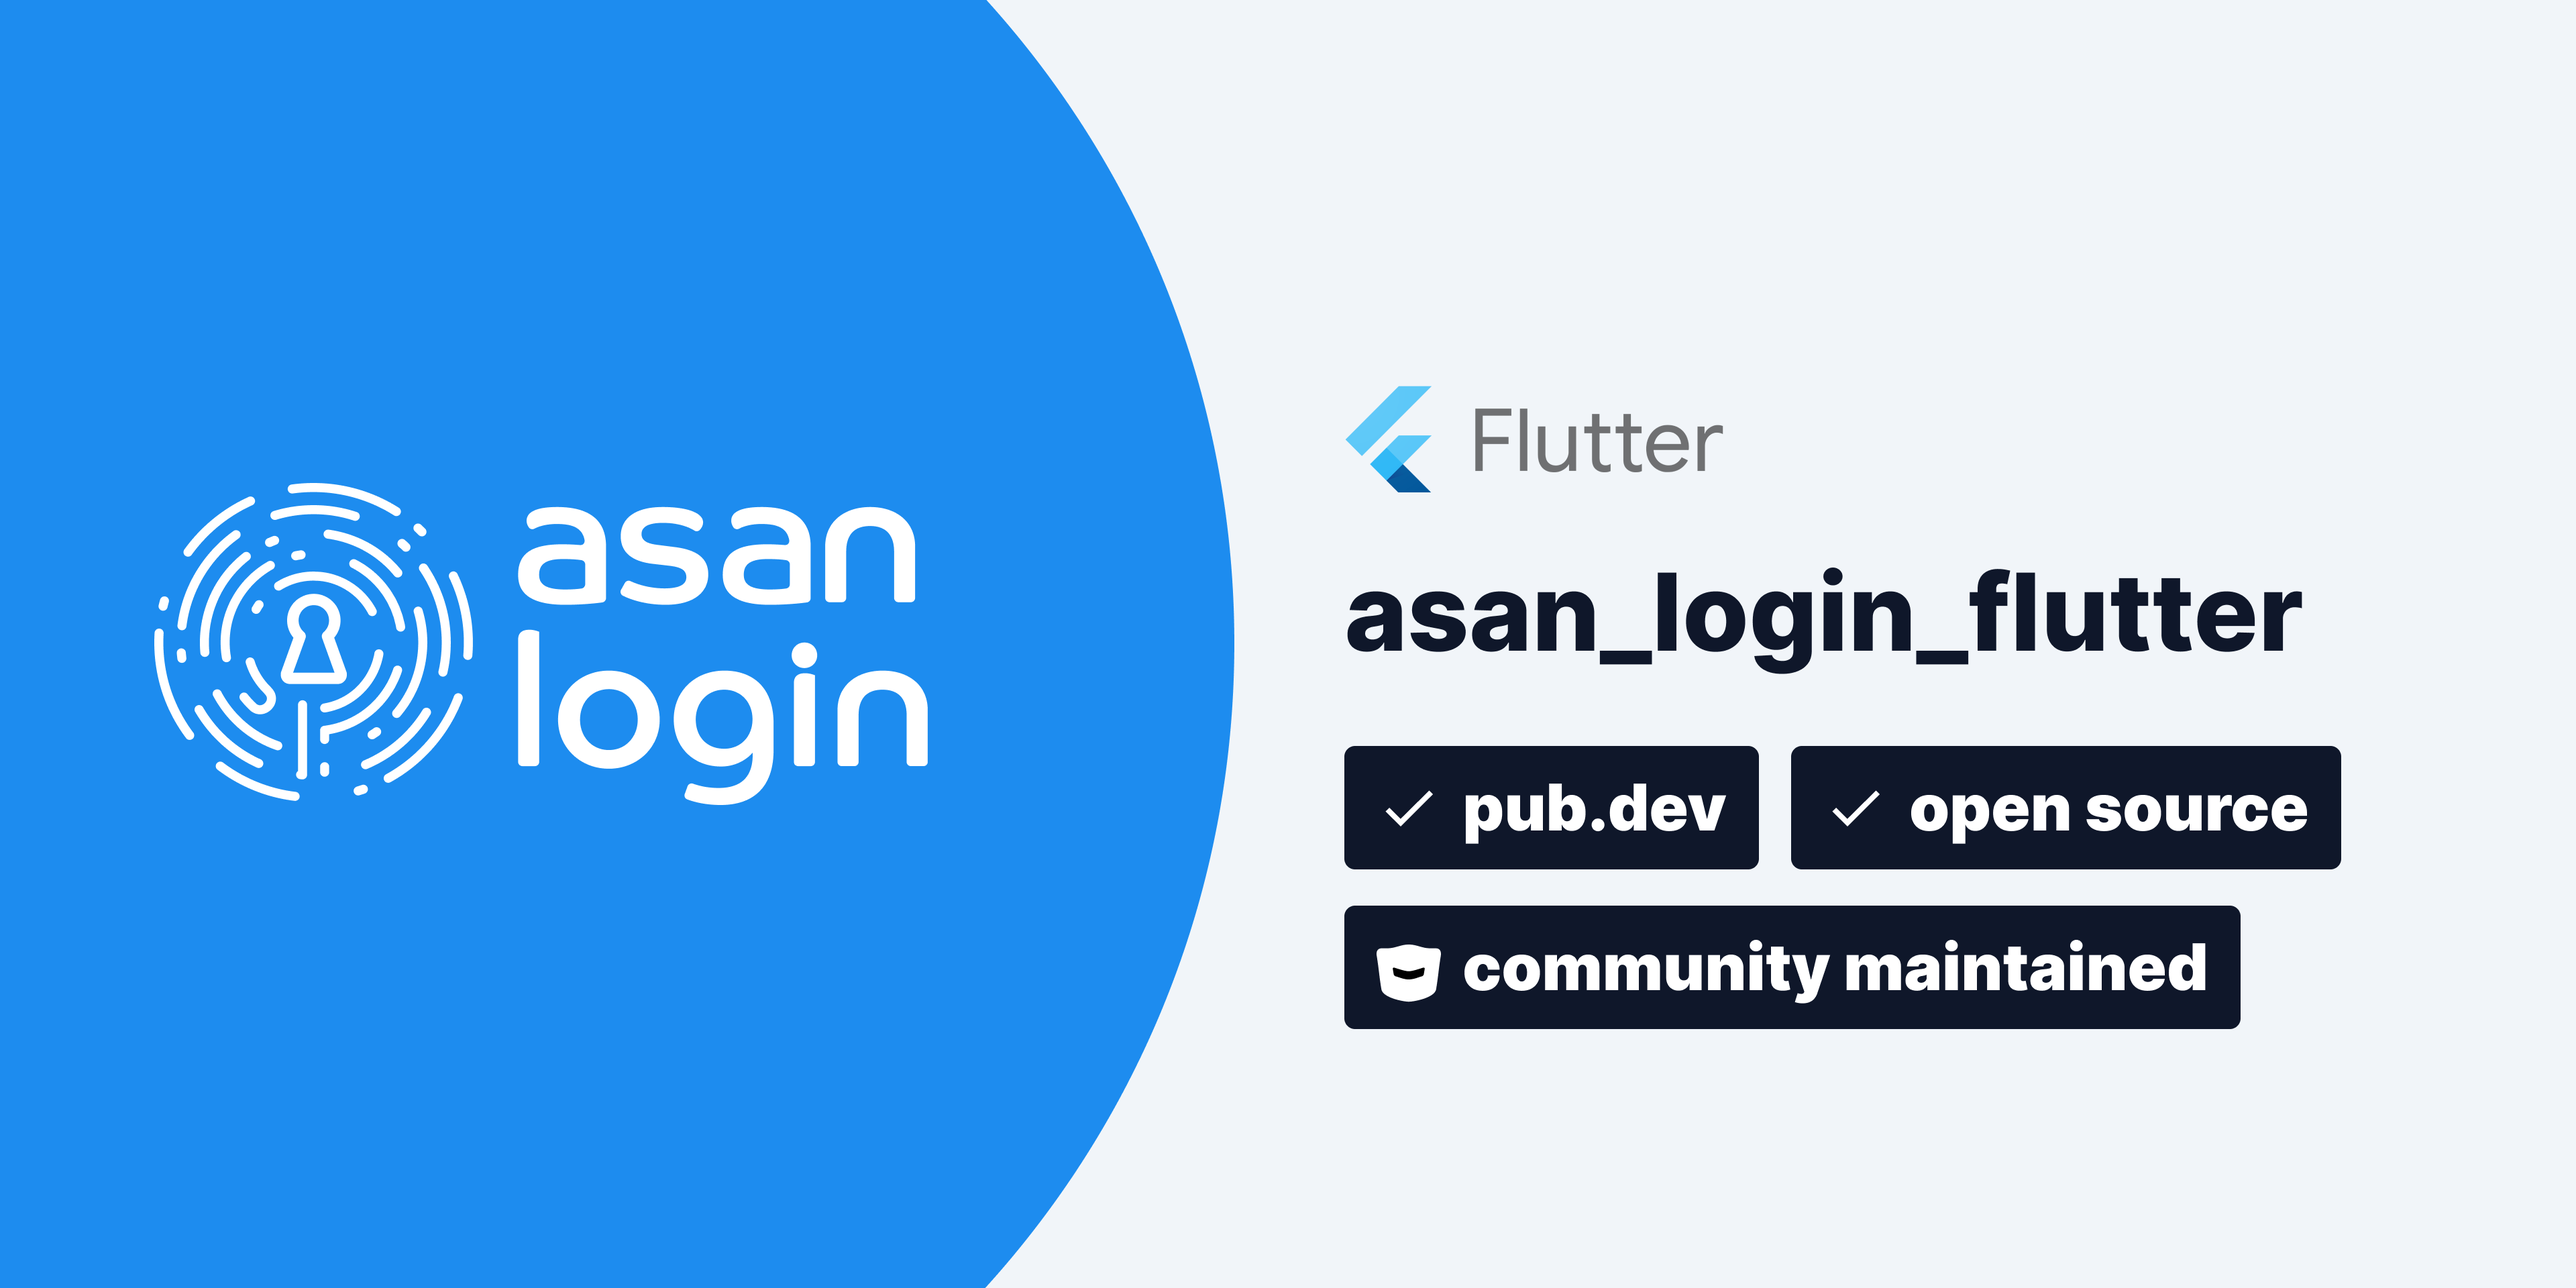
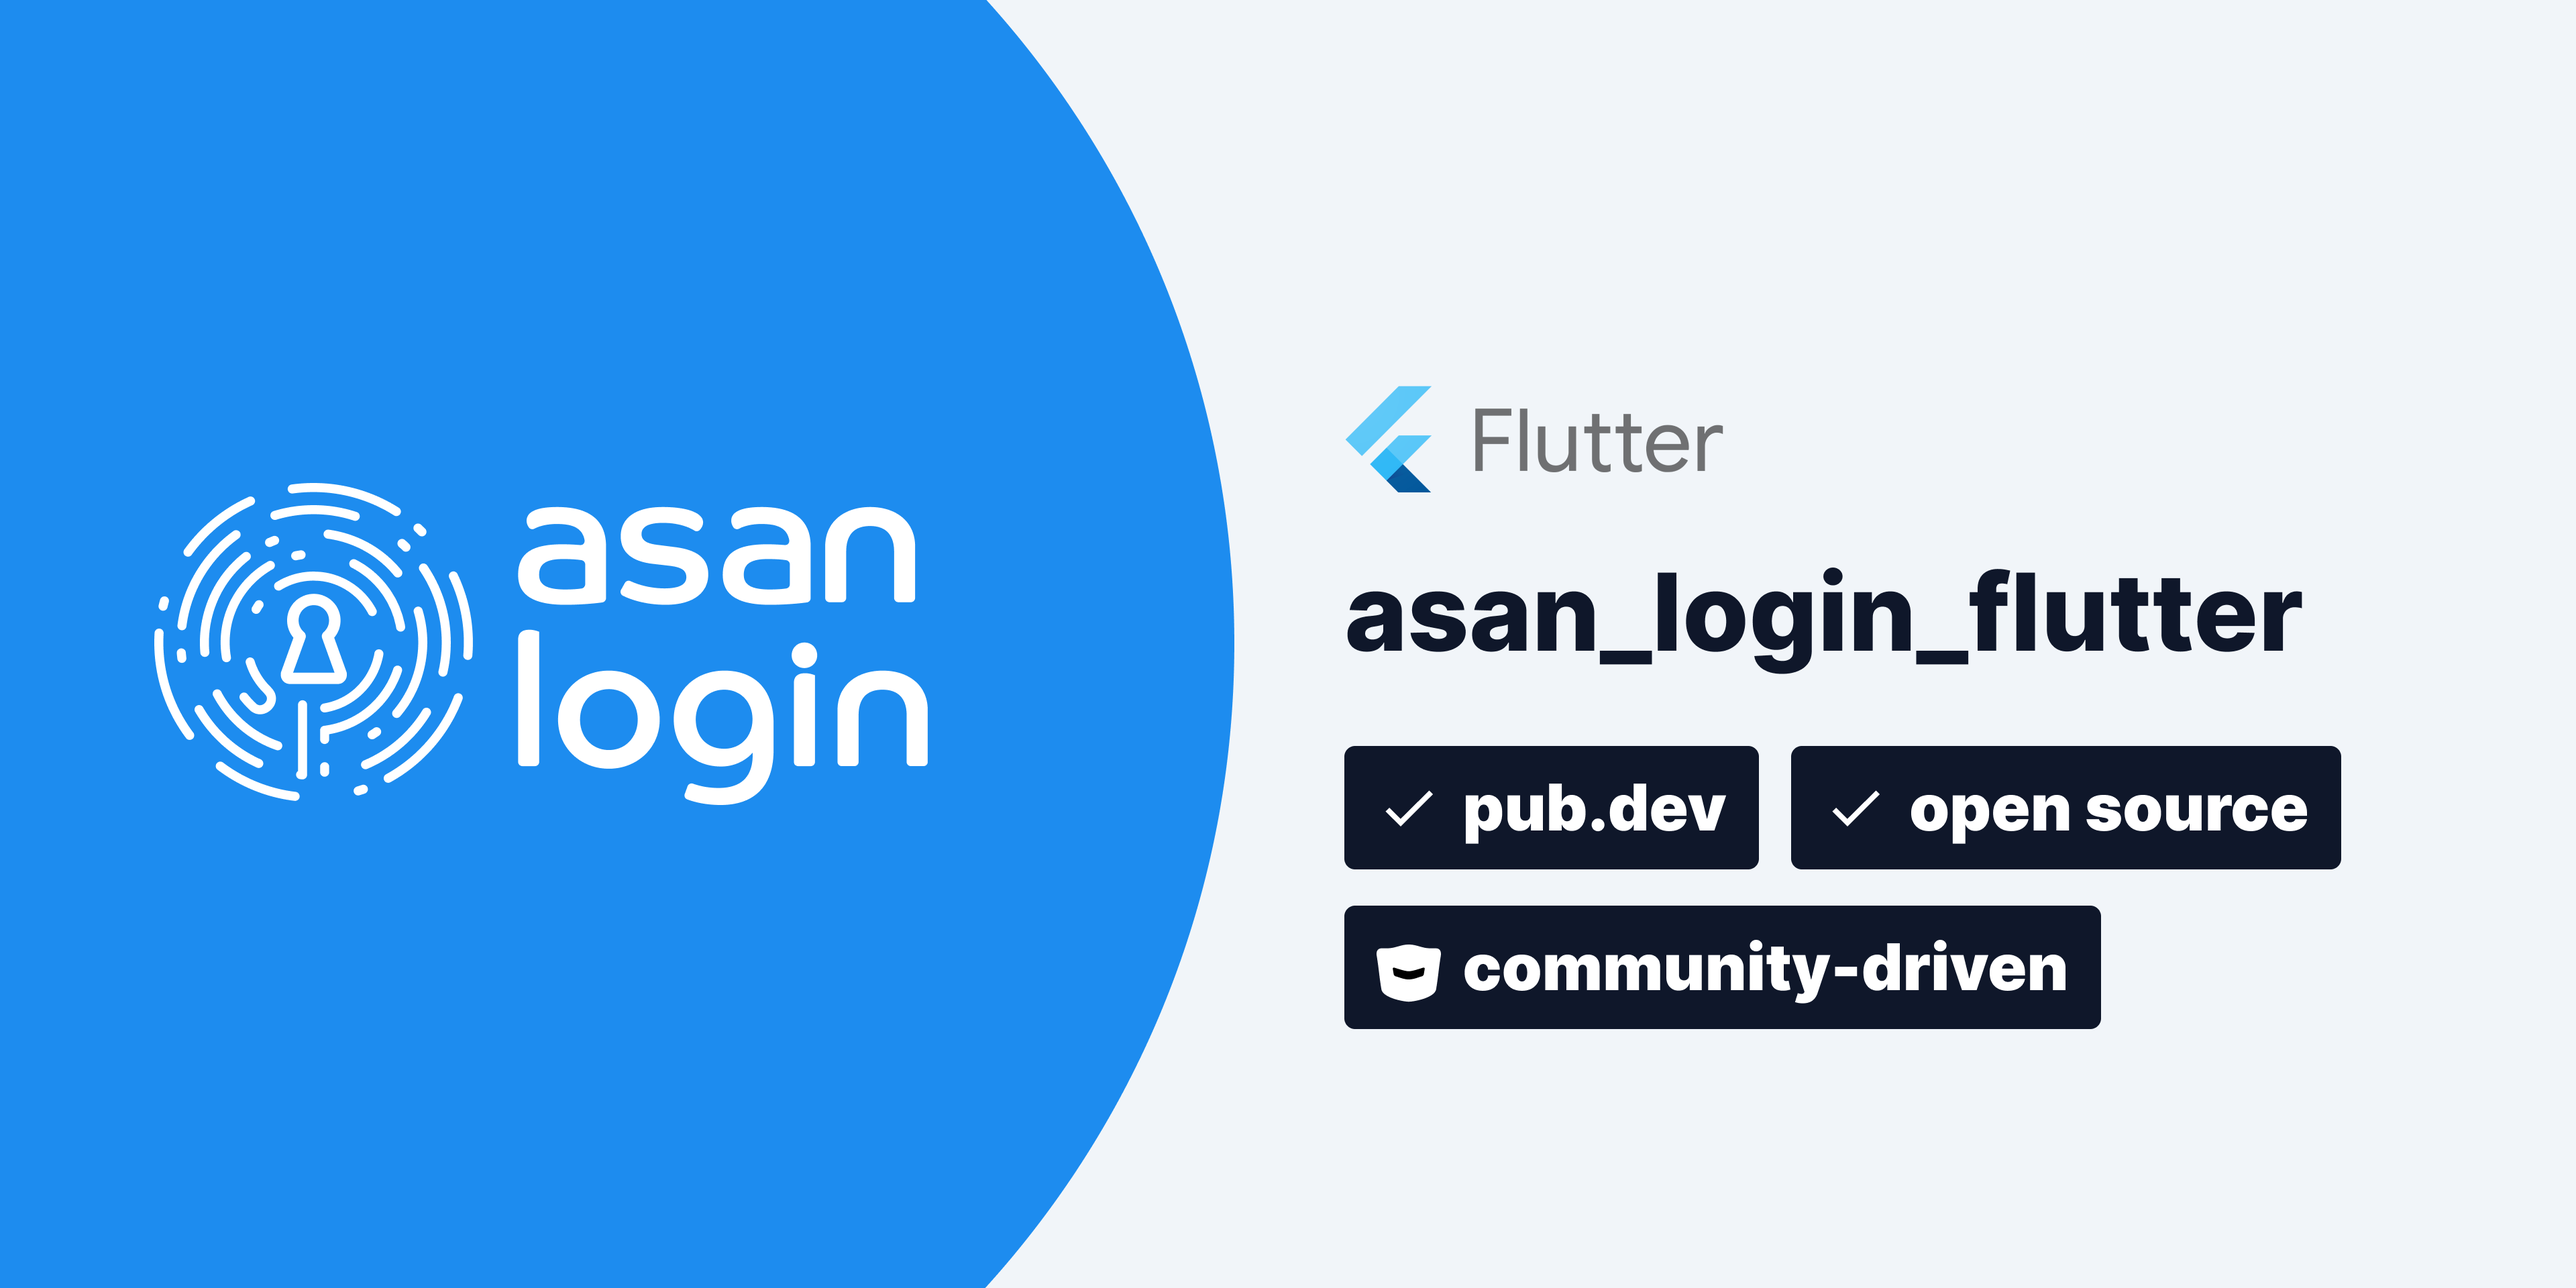
1.0.2

Changed region(s): [[0.7188, 0.6875, 0.875, 0.8125]]

diff --git a/README.md b/README.md
@@ -6,7 +6,9 @@ ASAN Login for Flutter
 
 ## Overview
 
-A basic, production-ready implementation for `ASAN Login`. The main responsibility of the package, as it is sufficient for mobile-side of the projects, is to extract `token` once the user is successfully logged in. The extracted `token`'s payload contains logged user's basic information. For advanced validation of user, please refer to `ASAN Login`'s documentation provided to your institution.
+A basic, production-ready, `community-driven` implementation for `ASAN Login`. The main responsibility of the package, as it is sufficient for mobile-side of the projects, is to extract `token` once the user is successfully logged in. The extracted `token`'s payload contains logged user's basic information. For advanced validation of user, please refer to `ASAN Login`'s documentation provided to your institution.
+
+NOTE: Tough it does not mean it is unstable, but, nevertheless it's worthwhile to inform developers that are going to use it that, this package is not officially developed and maintained by `ASAN Login` itself, but rather by Flutter community.
 
 ---
 

diff --git a/CHANGELOG.md b/CHANGELOG.md
@@ -1,3 +1,11 @@
+## 1.0.2
+
+Disclaimer note about package added.
+
+## 1.0.1
+
+Static analysis issues fixed.
+
 ## 1.0.0
 
 The package is tested on production level, thus ready for use.
